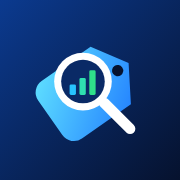
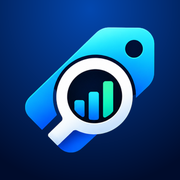
Add files via upload

diff --git a/index.html b/index.html
@@ -11,7 +11,7 @@
     <meta property="og:description" content="Search for a product, compare merchants' offers and buy from the store you choose." />
     <meta property="og:type" content="website" />
     <meta name="twitter:card" content="summary_large_image" />
-    <link rel="icon" type="image/svg+xml" href="/ovoprice_mark.svg" />
+    <link rel="icon" type="image/png" sizes="256x256" href="/ovoprice_icon_256.png" />
     <link rel="icon" type="image/png" sizes="32x32" href="/ovoprice_favicon_32.png" />
     <link rel="apple-touch-icon" sizes="180x180" href="/ovoprice_apple_touch_180.png" />
   </head>

diff --git a/src/components/OvoPriceLogo.tsx b/src/components/OvoPriceLogo.tsx
@@ -1,6 +1,6 @@
 import React from 'react';
-/** Vector mark (public/ovoprice_mark.svg): stays sharp at every size. */
-const OVOPRICE_MARK = '/ovoprice_mark.svg';
+/** App icon without the wordmark (public/ovoprice_icon_256.png); the name is written next to it. */
+const OVOPRICE_MARK = '/ovoprice_icon_256.png';
 
 export interface OvoPriceLogoProps {
   className?: string;

diff --git a/CHANGES_PAS_1_2.md b/CHANGES_PAS_1_2.md
@@ -319,3 +319,9 @@ The privacy notice now says fonts and images come from our own server.
 - `index.html`: SVG favicon + 32 px PNG fallback + 180 px apple-touch icon (opaque, full-bleed, as iOS expects). New files: `public/ovoprice_favicon_32.png`, `public/ovoprice_apple_touch_180.png`.
 - The old `public/ovoprice_logo.png` and `src/assets/images/ovoprice_logo.png` are no longer used (kept in the repo; can be deleted).
 - Drawn as a close approximation of the old artwork, not a pixel copy. Check the "OvoPrice" name as a trademark before launch.
+
+## Logo: your own icon, without the wordmark (Oct 29)
+- The original icon (price tag + magnifier with bars) was taken from `public/ovoprice_logo.png`; the "OvoPrice" text was removed and the symbol enlarged on a clean background with the same blue colours.
+- New files: `public/ovoprice_icon_256.png` (header), `public/ovoprice_icon_512.png` (spare, large), `public/ovoprice_favicon_32.png` (tab), `public/ovoprice_apple_touch_180.png` (phone home screen).
+- `src/components/OvoPriceLogo.tsx` and `index.html` now use these PNGs. The name is written next to the icon in the header.
+- `public/ovoprice_mark.svg` and the old `ovoprice_logo.png` are no longer used, but kept.
